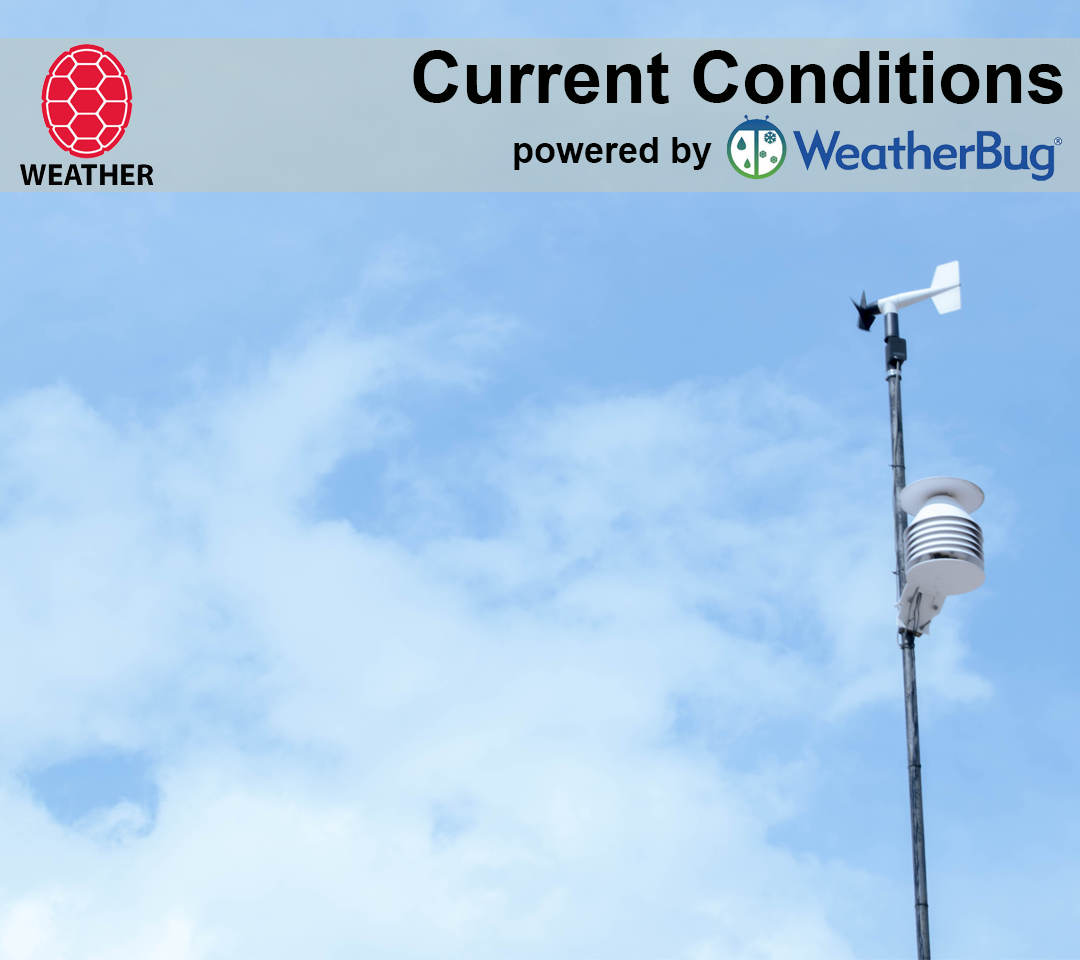
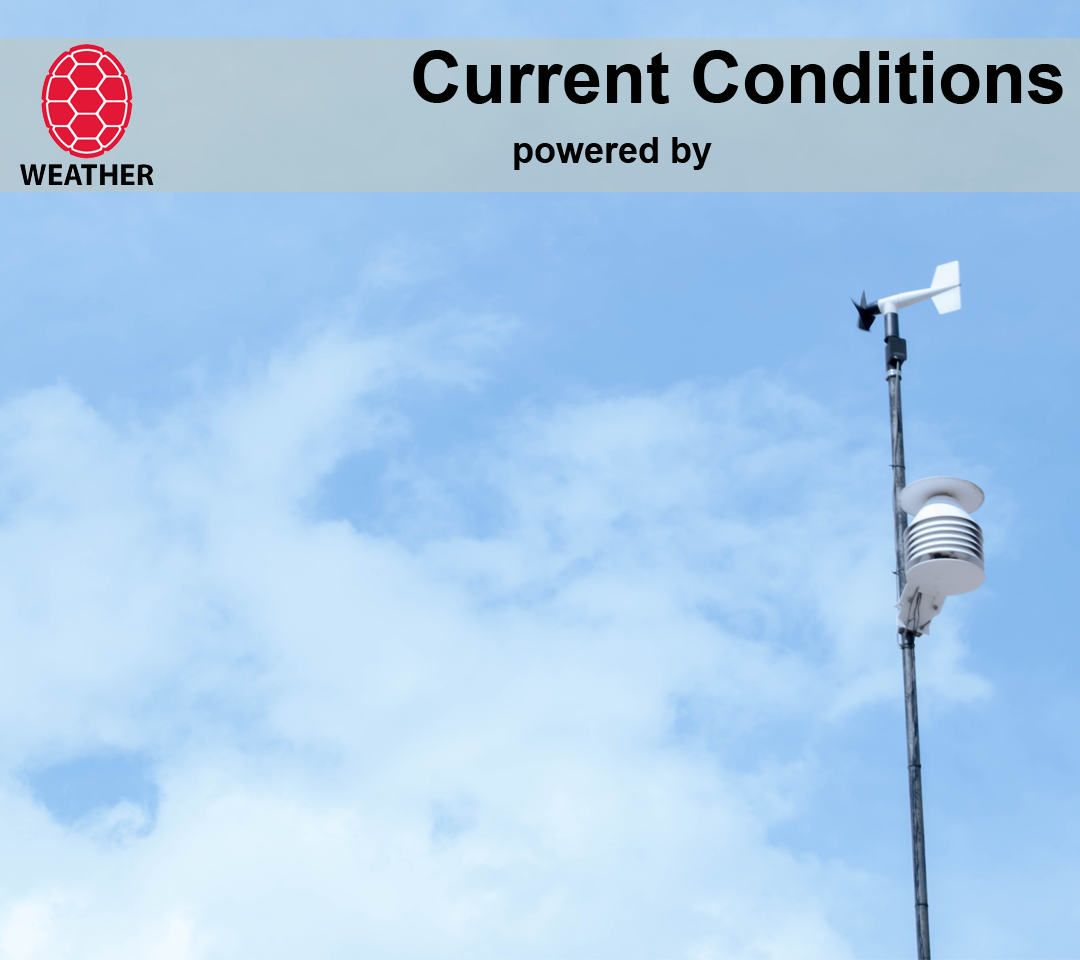
changed current conditions to use weather underground

Changed region(s): [[0.6722, 0.125, 0.9778, 0.1875]]

diff --git a/plugins/current/style.css b/plugins/current/style.css
@@ -2,56 +2,195 @@ body {
     background-image: url("background.png");
     background-repeat: no-repeat;
     background-size: 100% 100%;
+    font-family: Sans-Serif;
+    font-size:200%;
+    color:#333;
 }
 
 #InfoBox {
-    background-color: rgba(255, 255, 255, 0.4);
+    position:relative;
+    background-color: rgba(255, 255, 255, 0.7);
     width: 70%;
     height: 75%;
     margin-left: 5%;
     margin-top: 20%;
+    border:4px solid #336;
 }
 
-#SubBox1 {
-  width: 713px;
+
+
+#logo{
+    position:absolute;
+    right:20px;
+    top: 0px;
+    margin-top:-125px;
+}
+#logo img{
+    height:75px;
+
 }
 
-#SubBox1left {
-  width: 440px;
-  height: 350px;
-  float: left;
+b{
+    color:#006;
+}
+.F {
+    position:relative;
+    display:inline-block;
+    font-size:70%;
 }
 
-#SubBox1right {
-  width: 273px;
-  height: 350px;
-  margin-left: 440px;
+.title{
+    color:#000;
+    font-weight:bold;
+    font-size:150%;
+    padding:0.5em;
+
 }
 
-#Title {
-  padding: 15px;
-  font-size: 40px;
+
+.mainBox {
+    margin:1.5em;
 }
 
-#Timestamp {
-  font-size: 28px;
-  padding-left: 15px;
-  padding-bottom: 15px;
+
+
+.otherInfo{
+    position:absolute;
+    top: 360px;
+}
+.obs_line{
+}
+.obs_lbl{ 
+    float:left;
+    width:200px;
+    font-weight:bold;
+}
+.obs_text{
+    float:left;
 }
 
-#Temperature {
-  font-size: 90px;
+
+
+
+.imageBox{
+    position:absolute;
+    left:425px;
+    top: 20px;
+    width:300px;
+}
+.imageBox img{
+    padding-left:35px;
+    width:250px;
+}
+.imageBox .wxCaption{
+    font-size:70%;
+#    margin-top:-0.5em;
+#    font-weight:bold;
+    text-align:center;
 }
 
-#DewPt {
-  font-size: 50px;
+
+
+.temp{
+    position:absolute;
+    left:2em;
+    top:3em;
+}
+.main_temp{
+    font-size:500%;
+}
+.feel_temp{
+    font-size:110%;
+    
+    margin-left:0em;
+    margin-top:-0.5em;
 }
 
-#RH {
-  font-size: 50px;
+
+
+.wind{
+    position:absolute;
+    left: 450px;
+    top:335px;
+    font-size:80%;
+    text-align:center;
+    width:250px;
+}
+#circle {   
+    width:140px;
+    height:140px;
+    border:#006 solid 4px;
+    border-radius:74px;
+}
+.wnd_circle{
+    position:relative;
+    margin-left:50px;
+}
+.wnd_speed{
+    width:100px;
+    text-align:center;
+    position:absolute;
+    top:35px;
+    left:25px;
+    font-size:150%;
+}
+.wnd_mph{
+    position:absolute;
+    width:100px;
+    left:25px;
+    top:75px;
+    text-align:center;
 }
 
-#Wind {
-  padding-left: 15px;
-  font-size: 50px;
+
+
+.updated{
+    font-size:70%;
+    position:absolute;
+    bottom:0px;
+    left:0px;
+    margin:1em;
 }
+/* #SubBox1 { */
+/*   width: 713px; */
+/* } */
+
+/* #SubBox1left { */
+/*   width: 440px; */
+/*   height: 350px; */
+/*   float: left; */
+/* } */
+
+/* #SubBox1right { */
+/*   width: 273px; */
+/*   height: 350px; */
+/*   margin-left: 440px; */
+/* } */
+
+/* #Title { */
+/*   padding: 15px; */
+/*   font-size: 40px; */
+/* } */
+
+/* #Timestamp { */
+/*   font-size: 28px; */
+/*   padding-left: 15px; */
+/*   padding-bottom: 15px; */
+/* } */
+
+/* #Temperature { */
+/*   font-size: 90px; */
+/* } */
+
+/* #DewPt { */
+/*   font-size: 50px; */
+/* } */
+
+/* #RH { */
+/*   font-size: 50px; */
+/* } */
+
+/* #Wind { */
+/*   padding-left: 15px; */
+/*   font-size: 50px; */
+/* } */

diff --git a/plugins/current/__init__.py b/plugins/current/__init__.py
@@ -3,7 +3,8 @@ import displayplugin as dp
 import datetime as dt
 import os, shutil
 import urllib
-import current
+#import current
+import weather_underground as wu
 
 import logging
 log = logging.getLogger(__name__)
@@ -29,18 +30,83 @@ class CSSWxBugDisplay:
             'html'        : 'file://'+htmlFile
         }       
 
-        current.getCSSwxbug(htmlFile) # create the html file
+
+        ## get the data
+        obs = wu.readData()['current_observation']
+        def tl(key, val):
+            return '<div class="obs_line"><div class="obs_lbl">'+key+'</div><div class="obs_text">'+val+'</div></div>'
+        text = ''
+
+        text += '<div class="temp">' +\
+                '<div class="main_temp"><b>{:0.0f}</b><div class="F">&#8457</div></div>'.format(round(obs['temp_f'],0)) +\
+                '<div class="feel_temp">Feels Like <b>{}</b> <div class="F">&#8457</div></div>'.format(obs['feelslike_f'])+\
+                '</div>'
+
+        text += '<div class="wind">' +\
+                '<div class="wnd_circle">'+\
+                  '<div id="circle"></div>' +\
+                  '<div id="triangle"></div>' +\
+                  '<div class="wnd_speed"><b>{:0.0f}</b></div>'.format(int(obs['wind_mph'])) +\
+                  '<div class="wnd_mph">mph</div>'+\
+                '</div>' +\
+                '<div>Wind from <b>{}</b></div>'.format(obs['wind_dir']) +\
+                '<div>Gusts <b>{}</b> mph </div>'.format(obs['wind_gust_mph']) +\
+                '</div>'
+        
+        text += '<div class="otherInfo">' + \
+               tl('Dew Point:','<b>{:0.0f}</b> F'.format(round(obs['dewpoint_f'],0))) +\
+               tl('Humidity:','<b>{}</b>'.format(obs['relative_humidity'])) +\
+               tl('Precip:','<b>{}</b> in'.format(obs['precip_today_in'])) +\
+               '</div>'
+
+        iconbase='http://icons.wxug.com/i/c/i/'
+        iconbase='http://icons.wxug.com/i/c/v4/'
+        iconext='.svg'
+        text += '<div class="imageBox">' +\
+                '<div class="wxImage"><img src="{}"></div>'.format(iconbase+obs['icon']+iconext) +\
+                '<div class="wxCaption">{}</div>'.format(obs['weather']) +\
+                '</div>'
+        
+        # text += obs['weather'] + '</br>'
+        # text += '{:0.0f} F'.format(round(obs['temp_f'],0)) + '</br>'
+        # text += 'Wind from {} {:0.0f} mph'.format(obs['wind_dir'], round(obs['wind_mph'],0)) + '</br>'
+        # text += '{} mb'.format(obs['pressure_mb']) + '</br>'
+        # text += '{} F'.format(obs['heat_index_f']) + '</br>'
+        # text += '{} F'.format(obs['windchill_f']) + '</br>'        
+        # text += '{} in.'.format(obs['precip_today_in']) + '</br>'
+        
+        # text += obs['observation_time'] + '</br>'
+
+        ## write the file
+        with open(htmlFile,'w') as html:
+            html.write('''
+<html>
+  <head>
+    <link rel="stylesheet" type="text/css" href="../common/style.css">
+    <link rel="stylesheet" type="text/css" href="style.css">
+  </head>
+  <body>
+    <div id="logo"><img src="http://icons.wxug.com/logos/PNG/wundergroundLogo_4c_horz.png"></div>
+    <div id="InfoBox">
+      <div class="title">'''+obs['display_location']['full']+'''</div>
+      <div class="mainBox">'''+text+'''</div>      
+      <div class="updated">'''+obs['observation_time']+'''</div>
+    </div>
+  </body>
+</html>''')
+        
+#        current.getCSSwxbug(htmlFile) # create the html file
 
         ## link the other required files to the tmp directory
         shutil.copy('style.css', tmpdir)
         shutil.copy('background.png', tmpdir)
 
-        ##download the icons if we haven't already
-        if not self.initialized:
-            log.debug('downloading WxBug icons...')
-            current.downloadIcons(tmpdir)
-            self.initialized = True
-            log.debug('donw downloading WxBug icons')
+        # ##download the icons if we haven't already
+        # if not self.initialized:
+        #     log.debug('downloading WxBug icons...')
+        #     current.downloadIcons(tmpdir)
+        #     self.initialized = True
+        #     log.debug('donw downloading WxBug icons')
         
         return params
 

diff --git a/plugins/current/weather_underground.py b/plugins/current/weather_underground.py
@@ -1,0 +1,37 @@
+import urllib, json
+import datetime as dt
+import logging
+log = logging.getLogger(__name__)
+
+url="http://api.wunderground.com/api/3a5b82718926c103/conditions/q/MD/College_Park.json"
+dataFreq = dt.timedelta(minutes=5)
+
+
+
+def readData():
+    '''buffer the data so that we don't do reads too often'''
+    ## is it time to get new data?
+    ctime = dt.datetime.now()
+    if ctime - readData.lastRead > dataFreq:
+        log.debug('downloading new weather data')
+        readData.lastRead = ctime
+        response = urllib.urlopen(url)
+        readData.data = json.loads(response.read())
+    return readData.data
+readData.data = None
+readData.lastRead = dt.datetime.now() - dt.timedelta(days=3)
+
+
+dat=readData()
+obs = dat['current_observation']
+
+print obs['display_location']['full']
+print obs['observation_time']
+print obs['weather']
+print obs['wind_mph'], obs['wind_dir'], obs['wind_gust_mph']
+print obs['pressure_mb'], obs['pressure_in']
+print obs['dewpoint_f']
+print obs['heat_index_f'], obs['windchill_f']
+print obs['precip_today_in']
+iconpath='http://icons.wxbug.com/i/c/j/##.gif'
+print obs['icon']
